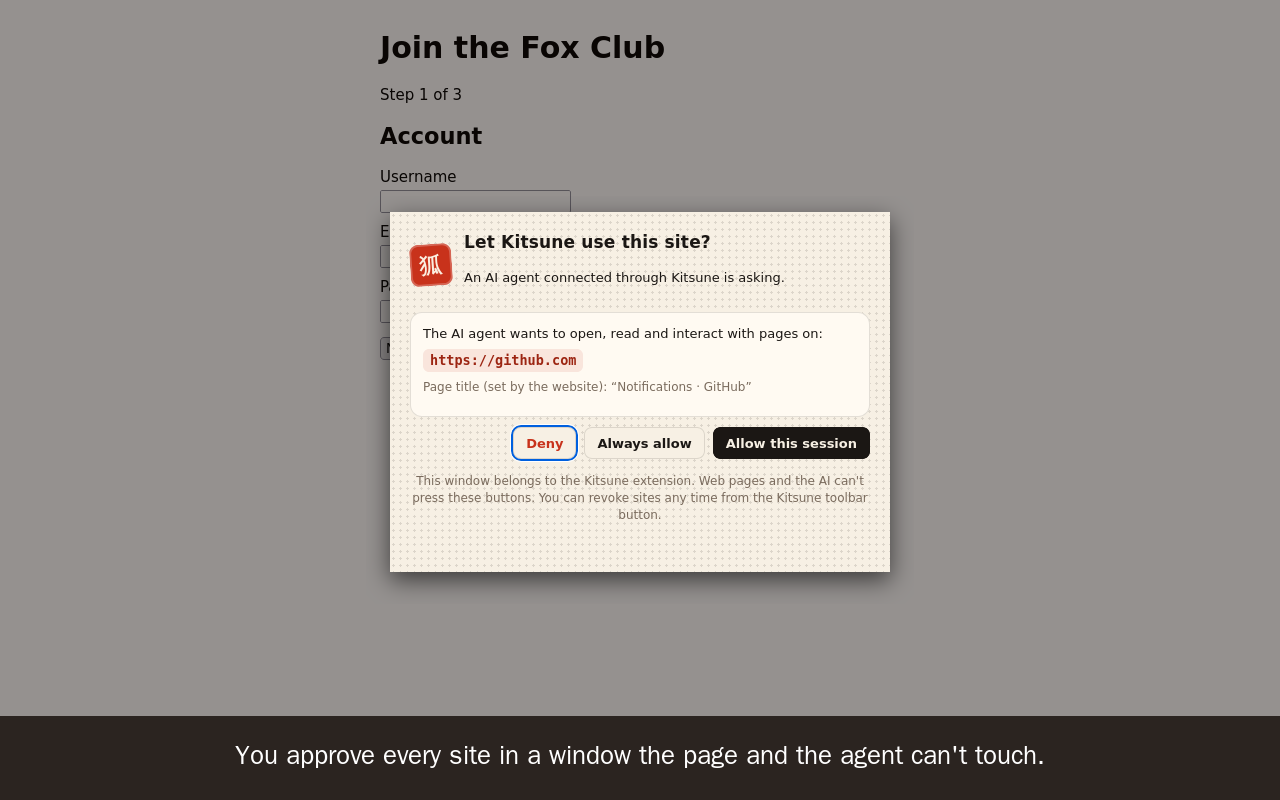
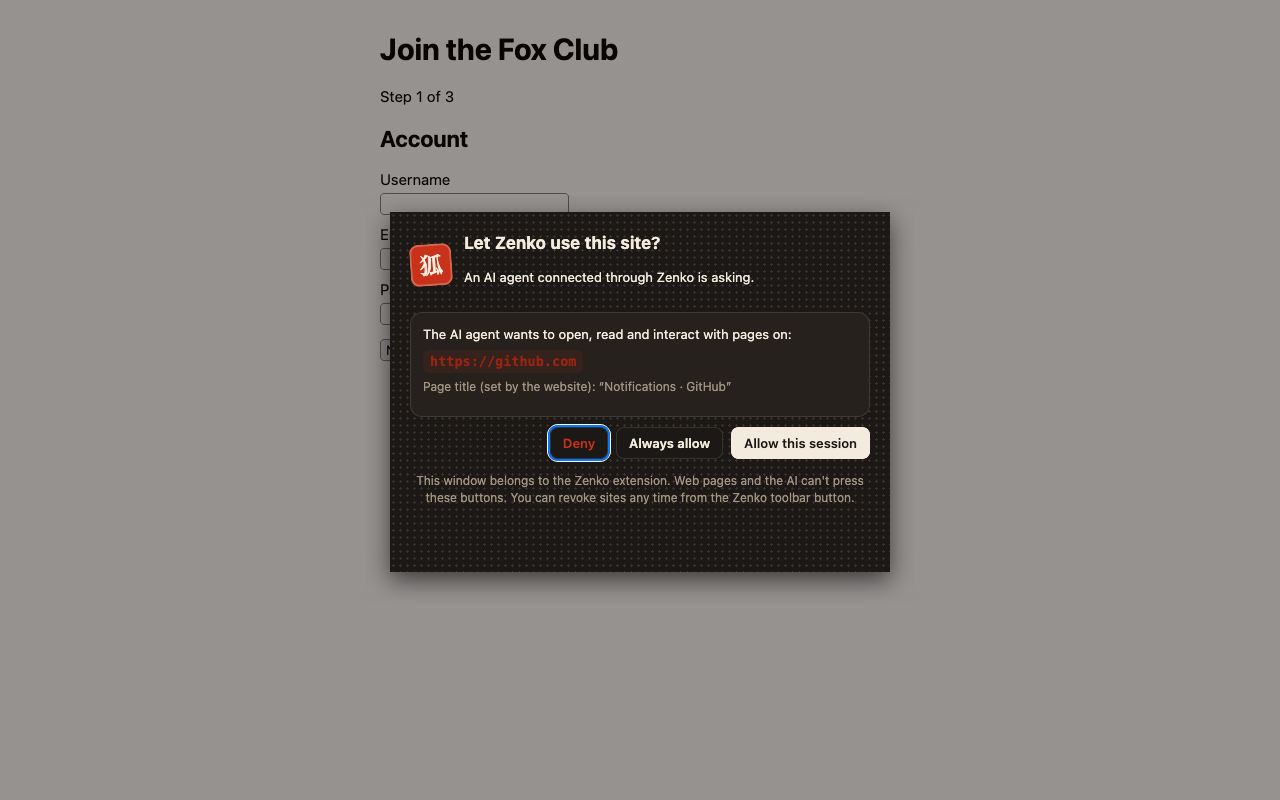
docs(amo): Zenko screenshots and listing text
- Regenerated the three AMO screenshots (they showed Kitsune). The popup
  one now shows 0.5.0's action list and a named browser
- amo-screenshots.mjs: no caption band (needed Ghostscript/Freetype;
  AMO has its own caption field), popup captured tall enough
- LISTING.md: action list and several profiles in the description,
  'formerly Kitsune', new support URL and popup caption

diff --git a/docs/amo/LISTING.md b/docs/amo/LISTING.md
@@ -18,6 +18,7 @@ Zenko connects an AI agent that you run on your own computer, such as Claude Cod
 
 - The agent only works in tabs in its own orange "Zenko" tab group. Your other tabs are off-limits.
 - Before it opens or reads a site for the first time, Zenko asks you in its own window: Deny, Allow this session, or Always allow. Pages and the agent can't press these buttons.
+- See what it's doing: the page shows the agent's description of each action, and the toolbar popup lists its recent actions.
 - Password fields are never shown to the agent.
 - Pause it any time from the toolbar button, with Alt+Shift+K, or with the Stop button on the page. Pausing stops work already in progress too.
 - File uploads need your confirmation every time, and key or credential files are always refused.
@@ -26,7 +27,11 @@ Zenko connects an AI agent that you run on your own computer, such as Claude Cod
 
 Zenko has two parts: this extension, and a small helper program you install once with `npx zenko-firefox setup` (it needs Node.js). The helper is also the MCP server your AI client talks to. Page content only goes from the extension to that helper on your computer and on to the AI client you connected. Zenko itself has no servers and collects nothing.
 
+Several Firefox profiles can be connected at once: name each one in the toolbar popup, and the agent can pick one or ask you to choose.
+
 Optional: start Firefox with `--remote-debugging-port=9222` and Zenko sends real mouse and keyboard input, which some sites require.
+
+Zenko was called Kitsune until version 0.6.0.
 
 Source code, documentation and test results: https://github.com/william-ricchiuti/Zenko
 
@@ -53,7 +58,7 @@ Generated from the real UI by `node scripts/amo-screenshots.mjs`:
 
 1. `screenshot-1-agent-working.png`: "The agent fills in a form; the orange glow and Stop button show which tab it's using."
 2. `screenshot-2-permission-window.png`: "You approve every site in a window the page and the agent can't touch."
-3. `screenshot-3-popup.png`: "Pause the agent, review and revoke sites, see the input mode."
+3. `screenshot-3-popup.png`: "See what the agent did, pause it, review and revoke sites."
 
 ## License
 
